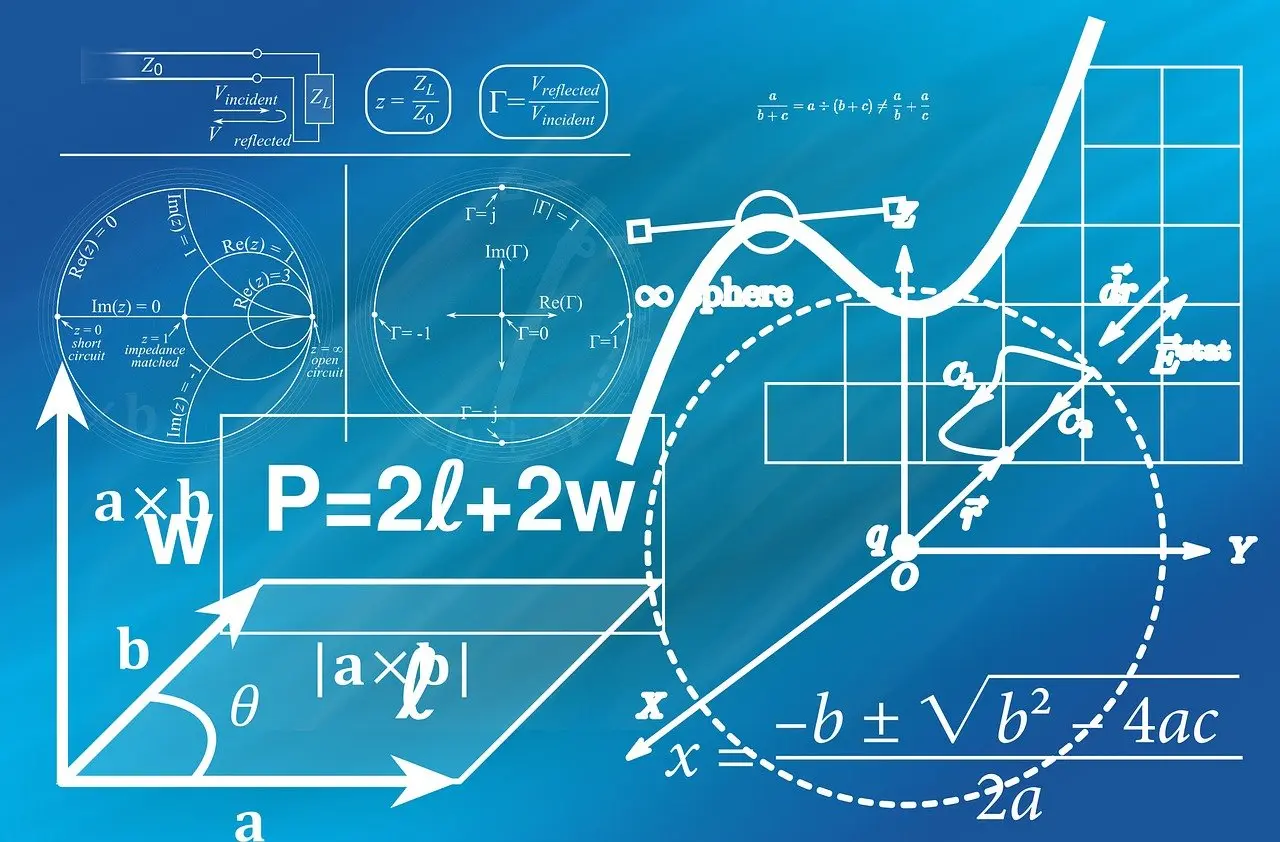
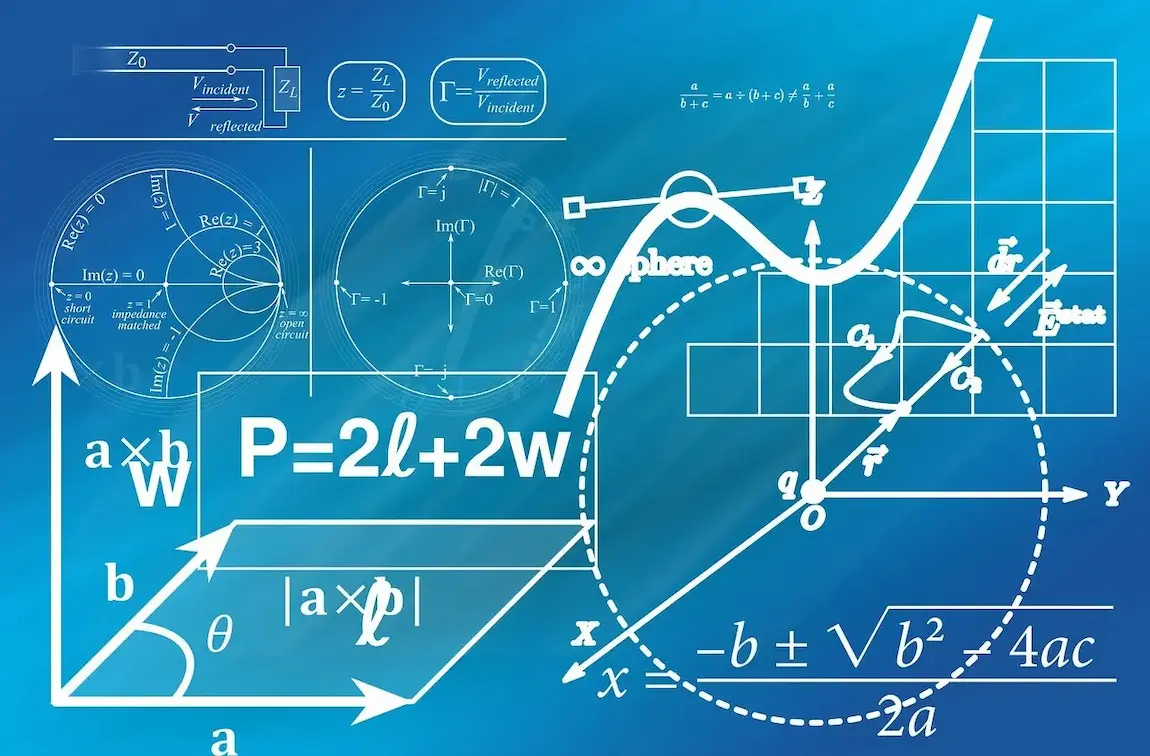
Optimización de imágenes

diff --git a/src/pages/los-7-problemas-del-milenio.md b/src/pages/los-7-problemas-del-milenio.md
@@ -4,7 +4,7 @@ titulo: Los 7 problemas del milenio
 autor: Nerea A.
 fotoDelAutor: /images/autores/nerea-a.webp
 portada: /images/contenido/los-7-problemas-del-milenio/portada.webp
-portadaAlt: Fotografía del Universo.
+portadaAlt: Ecuaciones matemáticas.
 descripcion: Descubre de primera mano cómo se descubrió la aceleración del Universo.
 ciencia: matemáticas
 fechaMostrar: 17 noviembre, 2023

diff --git a/src/pages/articulos/matematicas/los-7-problemas-del-milenio.md b/src/pages/articulos/matematicas/los-7-problemas-del-milenio.md
@@ -4,7 +4,7 @@ titulo: Los 7 problemas del milenio
 autor: Nerea A.
 fotoDelAutor: /images/autores/nerea-a.webp
 portada: /images/contenido/los-7-problemas-del-milenio/portada.webp
-portadaAlt: Matemáticas.
+portadaAlt: Ecuaciones matemáticas.
 ciencia: matemáticas
 fechaMostrar: 17 noviembre, 2023
 fechaOrdenar: Nov 17, 2023
